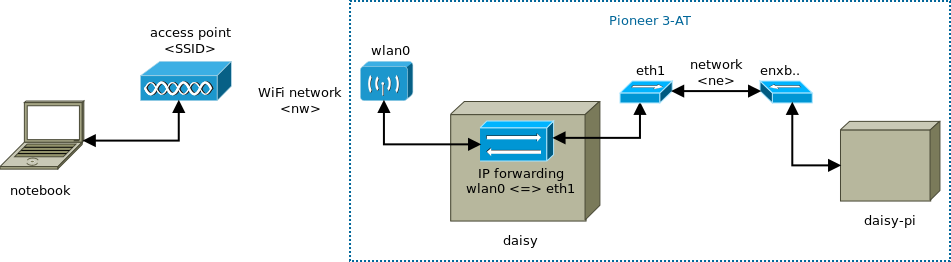
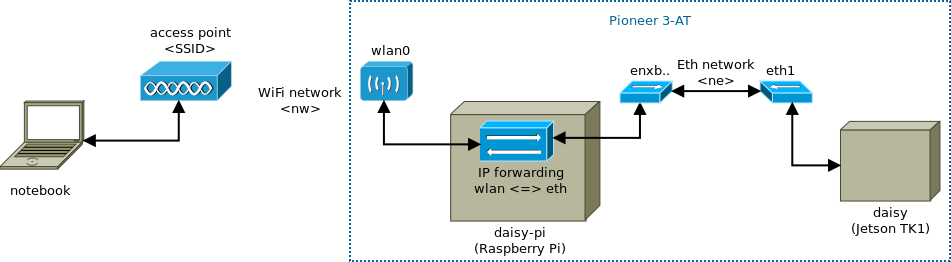
daisy setup: change gateway to Raspberry Pi

diff --git a/tutorials/daisy/README.md b/tutorials/daisy/README.md
@@ -29,9 +29,10 @@ solutions in consultation with Denise.
 
 ![Pioneer 3-AT daisy.](./network.png)
 
-`daisy` automatically connects to the access point `<SSID>` over its interface
-`wlan0` when available. Denise manages the accounts and connection details
-(SSID, IPs, username and password) -> contact for account creation.
+The Raspberry Pi `daisy-pi` automatically connects to the access point `<SSID>`
+over its interface `wlan0` when available and is the gateway of the Jetson
+TK1. Denise manages the accounts and connection details (SSID, IPs, username
+and password) -> contact for account creation.
 
 [Setup a hotspot](https://wiki.ubuntuusers.de/Howto/Hotspot_auf_PC_einrichten/)
 with the appropriate SSID and password. Start the hotspot with
@@ -50,23 +51,44 @@ $ roslaunch pioneer_teleop drive.launch \
     robot-distro:=indigo robot-port:=/dev/ttyTHS1
 ```
 
-### Reach `daisy-pi`
+### Reach `daisy`
 
-`daisy` uses the Ethernet port `eth1` to communicate to the Raspberry Pi. The
-Pi is therefore in a different network `<ne>` than the notebook.
+Jetson TK1 `daisy` uses its Ethernet port to communicate to the Raspberry Pi
+`daisy-pi`. The Jetson TK1 is therefore in a different network `<ne>` than the
+notebook `<nw>`.
 
 [IP forwarding](https://gist.github.com/tzermias/5408466) must be enabled for
-`eth1` to `wlan0`, which is performed by a script at startup. On the
-Pi [set the route](http://linux-ip.net/html/tools-route.html) to the WLAN
-network <nw>. And vice versa for the notebook.
+the Pi's Ethernet port `eth` to `wlan0`, which is performed by a script at
+startup. On the
+Jetson~TK1 [set the route](http://linux-ip.net/html/tools-route.html) to the
+WLAN network `<nw>`. And vice versa for the notebook (route to Jetson TK1).
+
+Additionally to the settings below, `daisy`, `daisy-pi` and your notebook need
+appropriate host name entries in `/etc/hosts` mapping the name to the IP.
 
 #### Settings on `daisy`
 
-Network settings in `/etc/network/interfaces` (static IP address):
+Network settings in `/etc/network/interfaces`:
 ```bash
 auto eth1
 iface eth1 inet static
   address <ne-daisy-ip>
+  netmask 255.255.255.0
+  gateway <ne-daisy-pi-ip>
+  dns-nameservers 8.8.8.8 8.8.4.4
+
+# Static route
+up route add -net <nw-base-ip> netmask 255.255.255.0 gw <ne-diasy-pi-ip>
+```
+
+#### Settings on `daisy-pi`
+
+Network settings in `/etc/network/interfaces`:
+```bash
+# Connection to Jetson TK1
+auto enxb827eb4e5821
+iface enxb827eb4e5821 inet static
+  address <ne-daisy-pi-ip>
   netmask 255.255.255.0
 ```
 
@@ -75,32 +97,19 @@ Script for IP forwarding:
 #!/bin/sh
 # enable ip forwarding
 sudo sysctl -w net.ipv4.ip_forward=1
-# forward packets from eth1 to wlan0
-sudo iptables -A FORWARD --in-interface eth1 -j ACCEPT
+# forward packets from eth to wlan
+sudo iptables -A FORWARD --in-interface enxb827eb4e5821 -j ACCEPT
 sudo iptables --table nat -A POSTROUTING --out-interface wlan0 -j MASQUERADE
 ```
 
 Added following snippet to `/etc/rc.local`:
 ```bash
 # ip forwarding
-/home/ubuntu/forward_eth1_to_wlan0.sh &
-echo "start ip forwarding: eth1 -> wlan0"
+/home/pi/forward_eth_to_wlan.sh &
+echo "start ip forwarding: eth -> wlan"
 ```
 
-#### Settings on `daisy-pi`
-Network settings in `/etc/network/interfaces` (static IP address and static route):
-```bash
-# Connection to Jetson TK1
-auto enxb827eb4e5821
-iface enxb827eb4e5821 inet static
-  address <ne-daisy-pi-ip>
-  netmask 255.255.255.0
-  gateway <ne-daisy-ip>
-  dns-nameservers 8.8.8.8 8.8.4.4
-
-# Static route
-up route add -net <nw-base-ip> netmask 255.255.255.0 gw <ne-diasy-ip>
-```
+The WiFi connection to the access point is setup via the GUI.
 
 
 #### Settings on `your-notebook`
@@ -108,8 +117,11 @@ up route add -net <nw-base-ip> netmask 255.255.255.0 gw <ne-diasy-ip>
 When you use a hotspot on your notebook, create a route to reach `daisy-pi`.
 ```bash
 # Static route
-up route add -net <ne-base-ip> netmask 255.255.255.0 gw <nw-diasy-ip>
+up route add -net <ne-base-ip> netmask 255.255.255.0 gw <nw-diasy-pi-ip>
 ```
+
+Set a static IP if you don't create a hotspot but use a router as access point
+for example.
 
 
 ## Jetson TK1 Installation
@@ -133,4 +145,4 @@ up route add -net <ne-base-ip> netmask 255.255.255.0 gw <nw-diasy-ip>
   installed IP routes on Pi and notebook.
 
 ---
-2017-10-16 | Denise Ratasich
+2017-12-01 | Denise Ratasich
